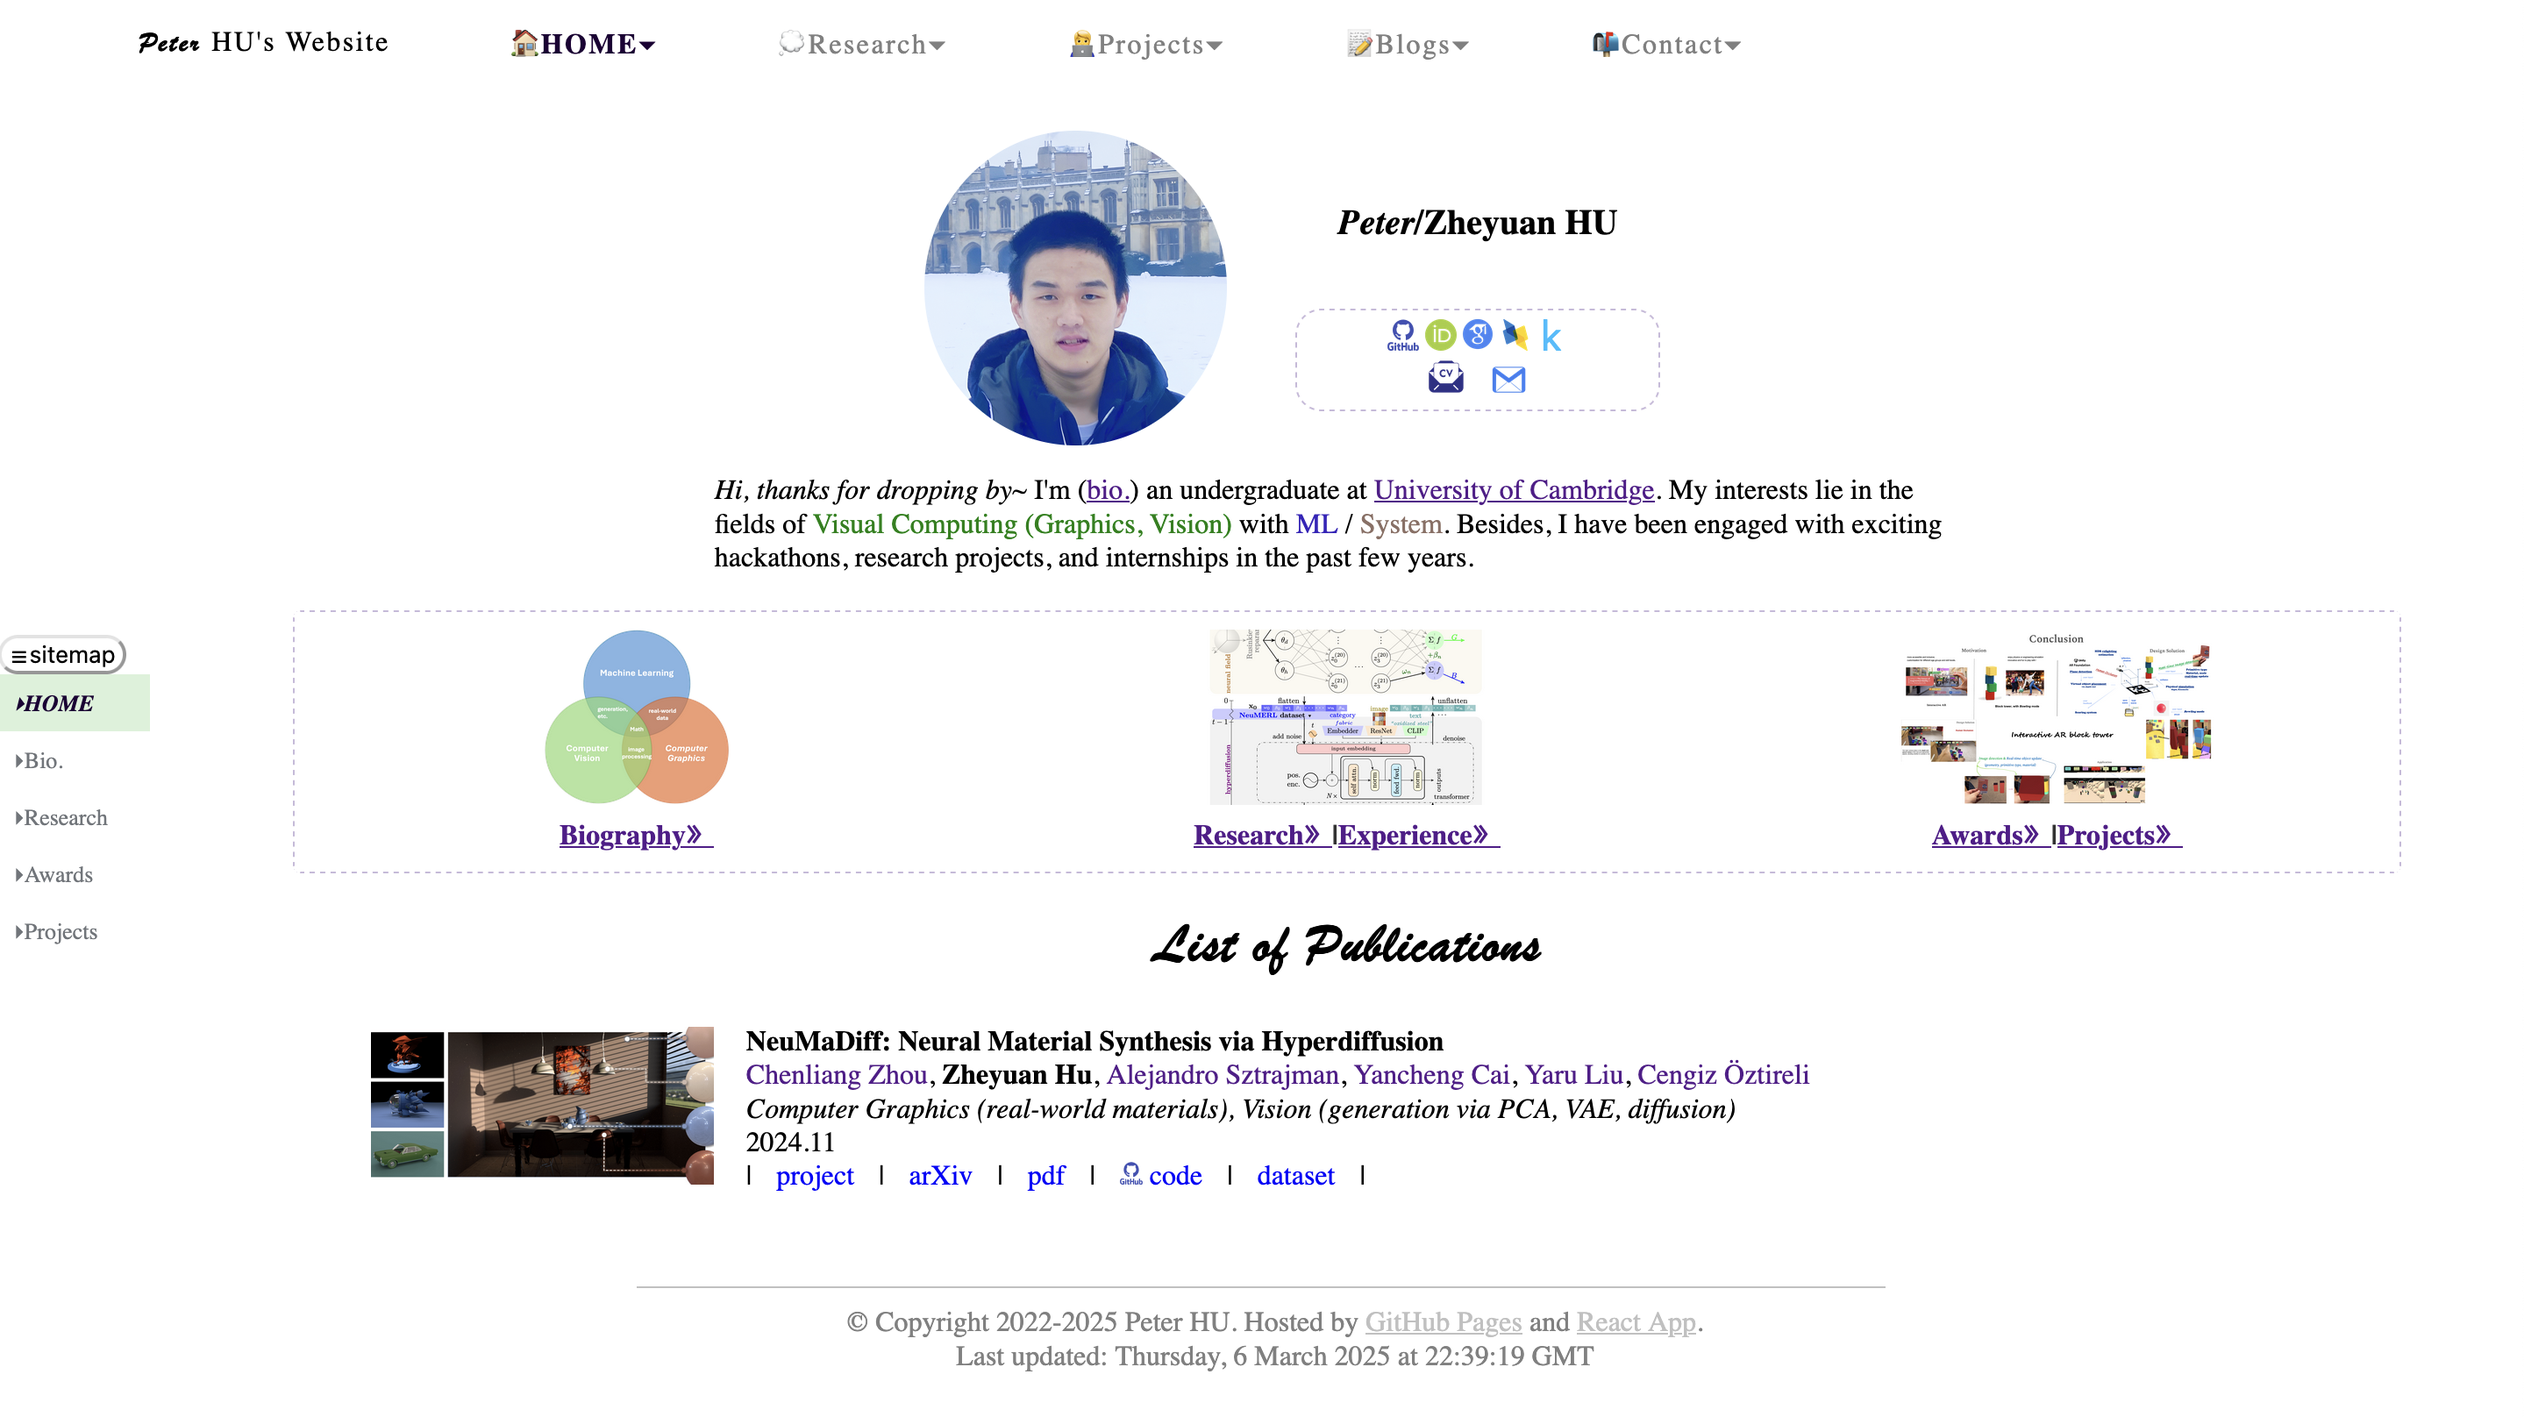
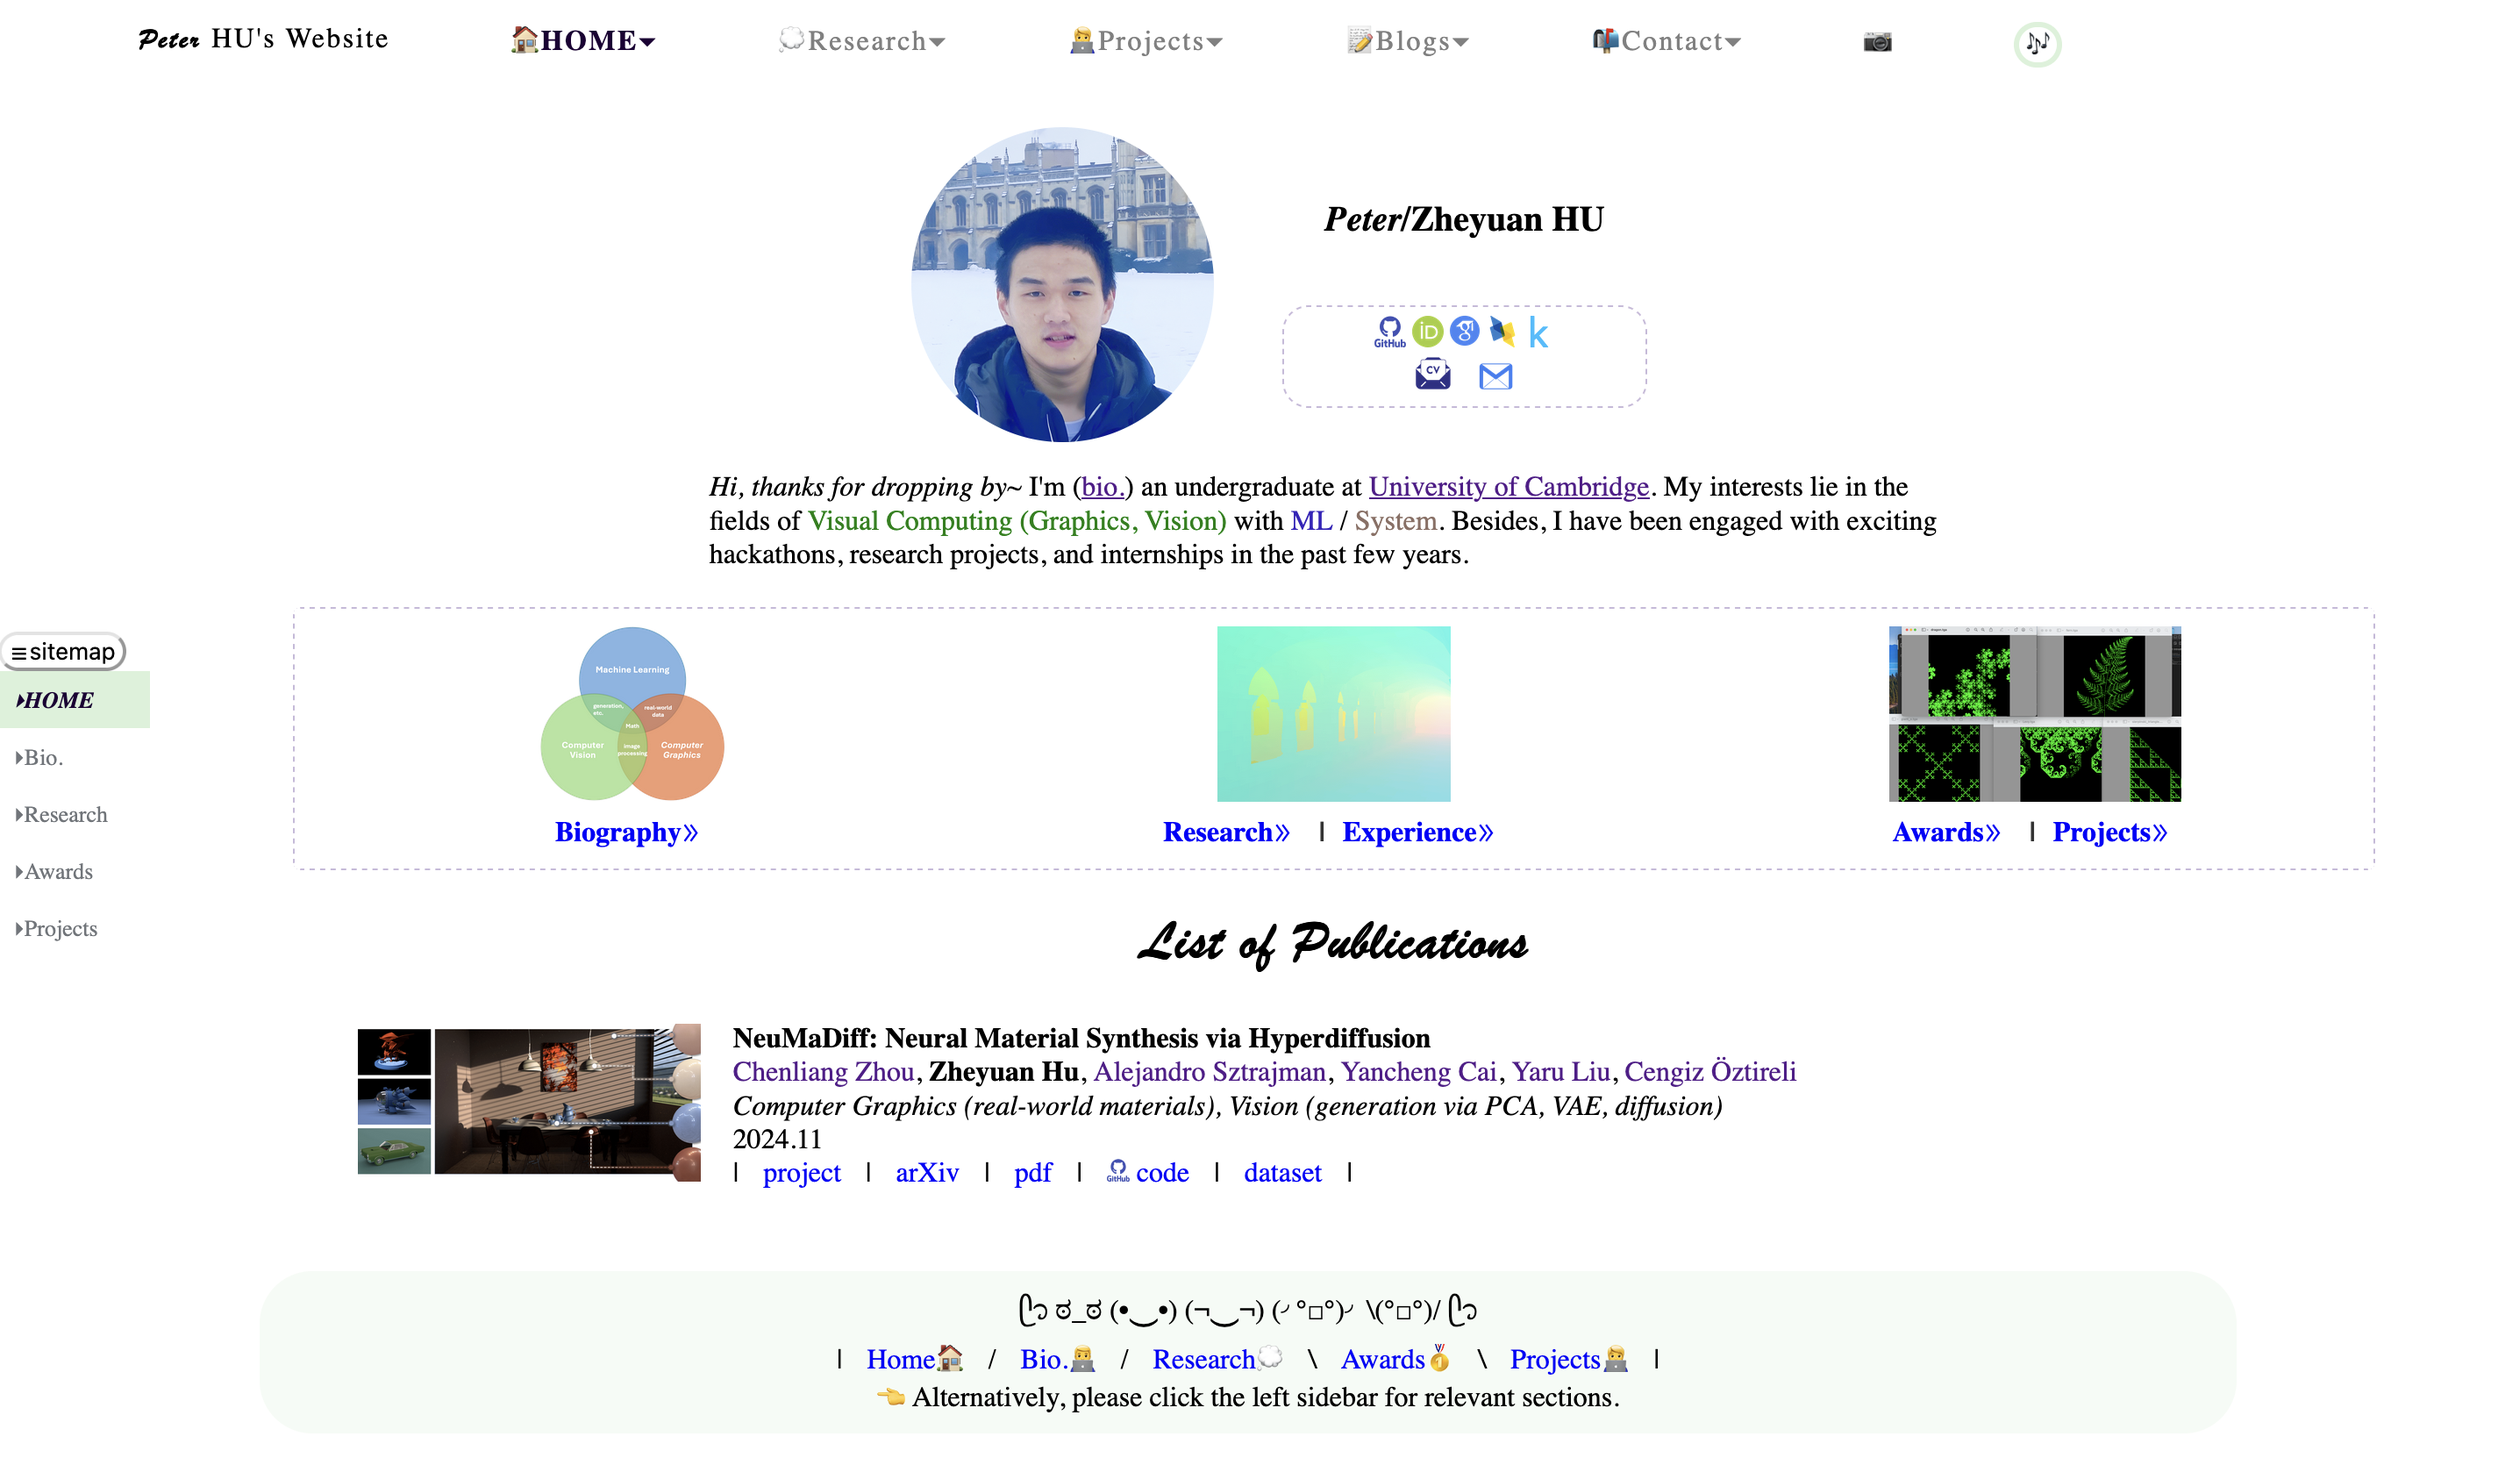
navigation footer, time-changing emoji

diff --git a/src/js/Home.js b/src/js/Home.js
@@ -6,12 +6,11 @@ import Index_Top from "./helper/index_top";
 import { motion } from 'framer-motion'
 import { HashLink } from 'react-router-hash-link';
 import Sidebar_Project from "./helper/project_sidebar"
-import FooterCommon from "./helper/footerCommon"
+// import FooterCommon from "./helper/footerCommon"
 import {Publication} from "./Research"
 import React, { useEffect, useState } from "react";
 import {Slideshow} from "./helper/slideShow"
 import {Education, Skill, Interest_extra} from "./EduSkill"
-import {NavigationNotice} from "./AboutMe"
 
 function About_me(){
   return (
@@ -81,7 +80,6 @@ function Detail(){
           <Publication />
         </center>
         <br/>
-        <NavigationNotice />
         {/* <Interest_extra /> <br/> */}
         {/* <embed src="asset/doc/CV_PeterHU.pdf"  width="800px" height="600px" /> */}
       </center>
@@ -110,9 +108,7 @@ function ColBio(){
         </HashLink> 
         <br/>
         {/* <font size="+1"> */}
-        <b>
         <HashLink to="/aboutme" className="project-link">Biography》</HashLink> <br/> 
-        </b>
         {/* </font> */}
     </>
   )
@@ -135,13 +131,11 @@ function ColResearch(){
           <Slideshow images={images} type="Research"/>
       </HashLink> 
       {/* <font size="+1"> */}
-      <b>
       <HashLink to="/research"
         className="project-link"
       >Research》</HashLink>|<HashLink to="/experience"
         className="project-link"
       >Experience》</HashLink> <br/>
-      </b>
       {/* </font> */}
     </>
   )
@@ -165,13 +159,11 @@ function ColProject(){
           <Slideshow images={images} type="Projects"/>
       </HashLink>
       {/* <font size="+1"> */}
-      <b>
       <HashLink to="/award"
         className="project-link"
       >Awards》</HashLink>|<HashLink to="/project"
         className="project-link"
       >Projects》</HashLink> <br/>
-      </b>
       {/* </font> */}
     </>
   )
@@ -197,15 +189,15 @@ export function Home() {
         <Detail />
       </div>
       {/* <br/> */}
-      <hr width="50%" color="#C0C0C0" size="1" />  
-       {/* #987cb9 */}
+      <Index_Footer />
+      {/* <hr width="50%" color="#C0C0C0" size="1" />  
       <table class="table_footer">
           <tbody>
                 <td>
                   <FooterCommon />
                 </td>
           </tbody>
-      </table>
+      </table> */}
     </div>
     </motion.div>
   );

diff --git a/src/js/helper/navigation_footer.js b/src/js/helper/navigation_footer.js
@@ -1,0 +1,37 @@
+import React from 'react';
+import { HashLink } from 'react-router-hash-link';
+import { useState, useEffect } from 'react';
+
+export function NavigationNotice(){
+    const [emojiIndex, setEmojiIndex] = useState(0);
+    const emoji_arr = ["ಠ_ಠ", "(•‿•)", "(¬‿¬)", "(╯°□°)╯", "\\(°□°)/"];
+
+    useEffect(() => {
+        const interval = setInterval(() => {
+          setEmojiIndex((prevIndex) => (prevIndex + 1) % emoji_arr.length); // Loop through emojis
+        }, 8000); // Change every 8 seconds
+    
+        return () => clearInterval(interval); // Clean up interval on component unmount
+      }, []);
+    
+    return(
+        <div style={{width: "80%", margin: "auto", textAlign: "center"}}>
+        <div class ="announcement">
+           ᥫ᭡ {emoji_arr[emojiIndex]} ᥫ᭡ <br/>
+        | <HashLink   to="/" 
+            className="project-link"
+        >Home🏠</HashLink>   /      <HashLink to="/aboutme"
+            className="project-link"
+        >Bio.👨💻</HashLink> /  <HashLink    to="/research"
+            className="project-link"
+        >Research💭</HashLink> \       <HashLink  to="/award"
+            className="project-link"
+        >Awards🥇</HashLink> \ <HashLink to="/project"
+            className="project-link"
+        >Projects🧑💻</HashLink> | <br/>
+        👈 Alternatively, please click the left sidebar for relevant sections. <br/>
+        {/* <HashLink to="/experience"><i>Experience</i></HashLink><br/> */}
+        </div>
+        </div>  
+    )
+}

diff --git a/src/js/AboutMe.js b/src/js/AboutMe.js
@@ -83,24 +83,3 @@ export function AboutMe(){
     <Index_Footer />
     </motion.div>)
 }
-
-
-export function NavigationNotice(){
-    return(
-        <div class ="announcement">
-        | <HashLink   to="/" 
-            className="project-link"
-        >Home🏠</HashLink>   /      <HashLink to="/aboutme"
-            className="project-link"
-        >Bio.👨💻</HashLink> /  <HashLink    to="/research"
-            className="project-link"
-        >Research💭</HashLink> \       <HashLink  to="/award"
-            className="project-link"
-        >Awards🥇</HashLink> \ <HashLink to="/project"
-            className="project-link"
-        >Projects🧑💻</HashLink> | <br/>
-        👈 Alternatively, please click the left sidebar for relevant sections. <br/>
-        {/* <HashLink to="/experience"><i>Experience</i></HashLink><br/> */}
-        </div>
-    )
-}

diff --git a/src/js/404.js b/src/js/404.js
@@ -4,7 +4,6 @@
 import { useEffect } from "react";
 import Index_Footer from "./helper/index_footer";
 import Index_Top from "./helper/index_top";
-import {NavigationNotice} from "./AboutMe";
 import Sidebar_Project from "./helper/project_sidebar"
 
 
@@ -24,9 +23,6 @@ export function NotFound()
         Sorry the webpage you want to reach has been moved or doesn't exist.
         {/* <a href="https://peterhuistyping.github.io">🏠HOME</a> */}
         <br/>
-        <div style={{width: "80%"}}>
-            <NavigationNotice />
-        </div>
         </center>
         <Index_Footer />
         </>

diff --git a/src/js/helper/index_footer.js b/src/js/helper/index_footer.js
@@ -1,10 +1,12 @@
 /* All rights reserved. 2022-2025 (c) Peter HU */
 
-
 import FooterCommon from "./footerCommon"
+import { NavigationNotice } from "./navigation_footer"
+
 export default function Index_Footer(){
     return(
     <>
+    <NavigationNotice />
     <br/>
     <hr width="50%" color="#C0C0C0" size="1" />  
     {/* #987cb9 */}

diff --git a/public/css/style.css b/public/css/style.css
@@ -135,7 +135,7 @@ h3 {
 }
 .announcement {
   padding: 10px 15px;
-  border-radius: 6px;
+  border-radius: 30px;
   /* background: rgba(210, 210, 210, 0.2509803922); */
   background-color: #f5fbf5;
   margin-top: 20px;
